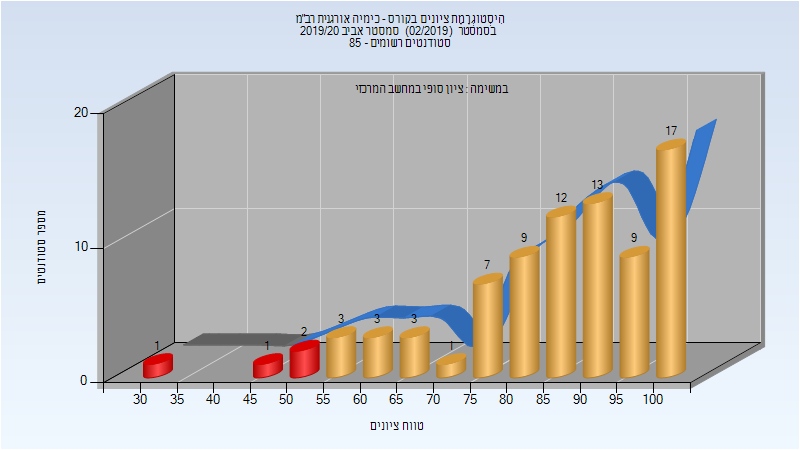
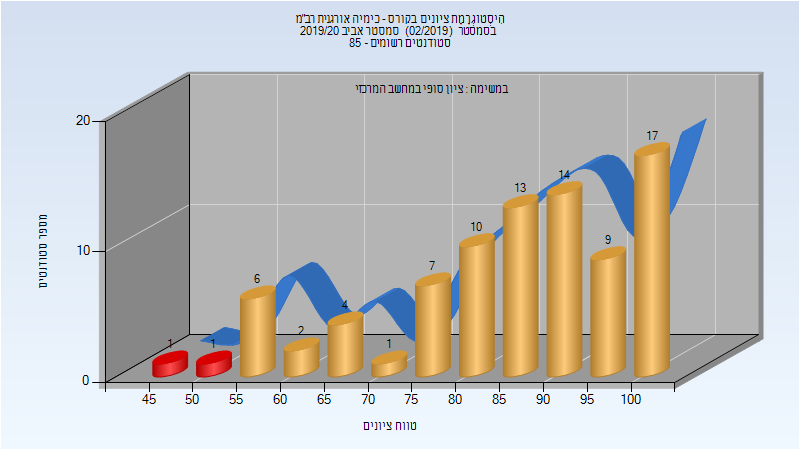
Deploy michael-maltsev/technion-histograms to github.com/michael-maltsev/technion-histograms.git:gh-pages

diff --git a/125802/index.html b/125802/index.html
@@ -527,12 +527,12 @@
 </thead>
 <tbody>
 <tr>
-<td>81</td>
-<td>77/4</td>
-<td>95</td>
-<td>33</td>
+<td>85</td>
+<td>83/2</td>
+<td>98</td>
+<td>49</td>
 <td>100</td>
-<td>85.346</td>
+<td>85.482</td>
 <td>89</td>
 </tr>
 </tbody>

diff --git a/125802/README.md b/125802/README.md
@@ -160,5 +160,5 @@
 
 | סטודנטים | עברו/נכשלו | אחוז עוברים | ציון מינימלי | ציון מקסימלי | ממוצע | חציון |
 | ---- | ---- | ---- | ---- | ---- | ---- | ---- |
-| 81 | 77/4 | 95 | 33 | 100 | 85.346 | 89 |
+| 85 | 83/2 | 98 | 49 | 100 | 85.482 | 89 |
 
